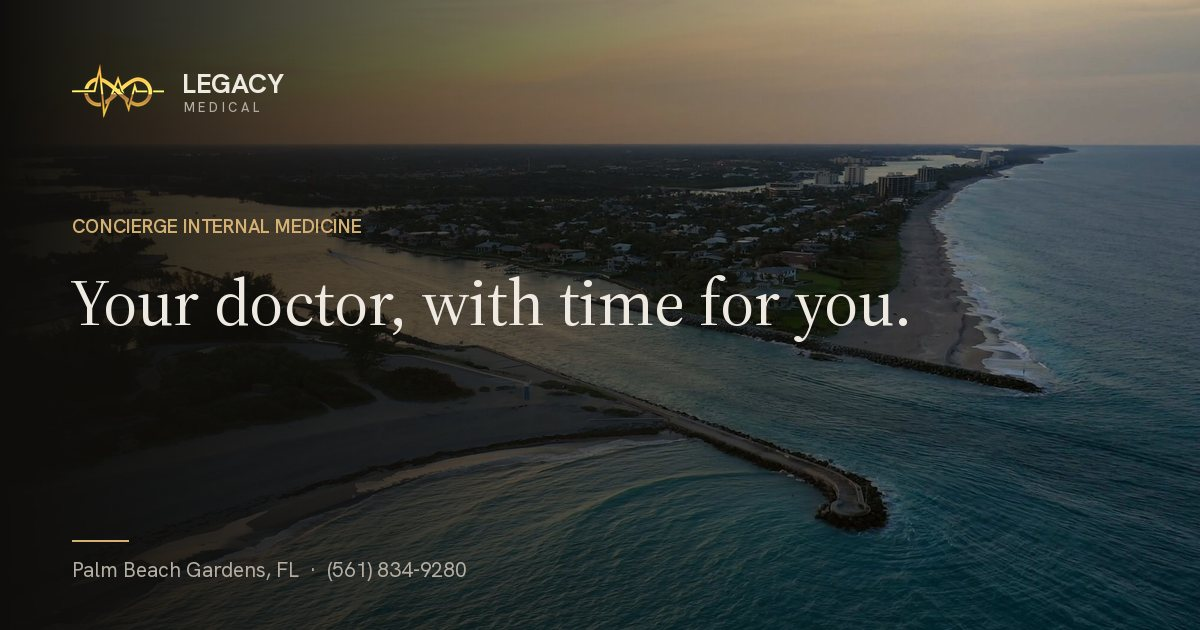
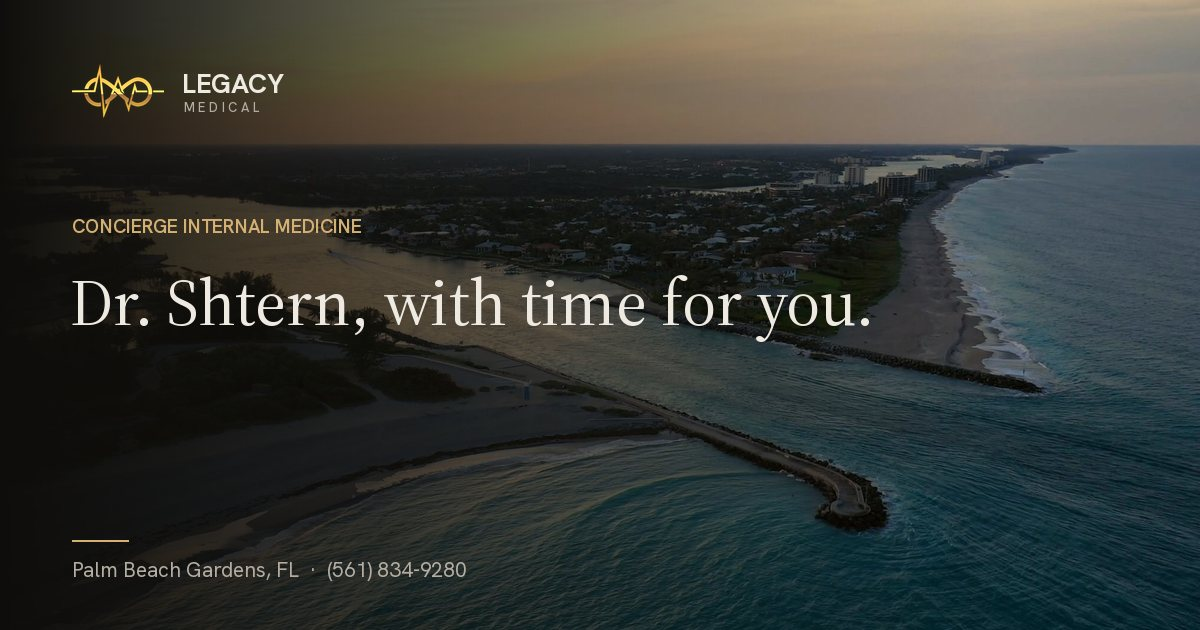
Hero headline: Dr. Shtern, with time for you
Replace "Your doctor," with "Dr. Shtern," in the home hero and regenerate
the home share card to match.

Claude-Session: https://claude.ai/code/session_01VnbfSFkBVVFF7HySXrHv4K

Changed region(s): [[0.0617, 0.4222, 0.74, 0.5429]]

diff --git a/public/index.html b/public/index.html
@@ -69,7 +69,7 @@
   <div class="hero-media"><picture><source type="image/avif" media="(max-aspect-ratio: 4/5)" srcset="/assets/video/inlet-poster-portrait-720.avif"><source type="image/webp" media="(max-aspect-ratio: 4/5)" srcset="/assets/video/inlet-poster-portrait-720.webp"><source type="image/avif" srcset="/assets/video/inlet-poster-768.avif 768w, /assets/video/inlet-poster-1280.avif 1280w, /assets/video/inlet-poster-1920.avif 1920w" sizes="100vw"><source type="image/webp" srcset="/assets/video/inlet-poster-768.webp 768w, /assets/video/inlet-poster-1280.webp 1280w, /assets/video/inlet-poster-1920.webp 1920w" sizes="100vw"><img src="/assets/video/inlet-poster-1280.jpg" srcset="/assets/video/inlet-poster-768.jpg 768w, /assets/video/inlet-poster-1280.jpg 1280w, /assets/video/inlet-poster-1920.jpg 1920w" sizes="100vw" width="1920" height="1080" alt="" fetchpriority="high" decoding="async"></picture><video muted loop playsinline preload="none" aria-hidden="true" tabindex="-1" disablepictureinpicture data-hd="/assets/video/inlet-1080.webm|/assets/video/inlet-1080.mp4" data-sd="/assets/video/inlet-720.webm|/assets/video/inlet-720.mp4" data-portrait="/assets/video/inlet-portrait.webm|/assets/video/inlet-portrait.mp4"></video></div>
   <div class="hero-scrim"></div>
   <div class="wrap hero-inner">
-    <h1 id="hero-h"><span class="hero-kicker fade-in" style="--i:0">Concierge internal medicine in Palm Beach Gardens</span><span class="hero-title"><span class="rise"><span style="--i:1">Your doctor,</span></span><span class="rise"><span style="--i:2">with <em>time</em></span></span><span class="rise"><span style="--i:3">for you.</span></span></span></h1>
+    <h1 id="hero-h"><span class="hero-kicker fade-in" style="--i:0">Concierge internal medicine in Palm Beach Gardens</span><span class="hero-title"><span class="rise"><span style="--i:1">Dr. Shtern,</span></span><span class="rise"><span style="--i:2">with <em>time</em></span></span><span class="rise"><span style="--i:3">for you.</span></span></span></h1>
     <p class="hero-lede fade-in" style="--i:3">Dr. Yana Shtern keeps a small practice on purpose. Members are seen the same or next business day, visits run long enough to talk, and the phone is answered at any hour.</p>
     <div class="btn-row fade-in" style="--i:4">
       <a class="btn" href="/membership#tour" data-loc="hero">Request a tour <svg class="arrow" viewBox="0 0 16 16" aria-hidden="true" focusable="false"><path d="M1 8h13M9 3l5 5-5 5" fill="none" stroke="currentColor" stroke-width="1.4"/></svg></a>

diff --git a/tools/build_brand.py b/tools/build_brand.py
@@ -134,7 +134,7 @@ def card(slug, title, kicker, photo=None, focal=(0.5, 0.3), bg_video=False):
 
 
 CARDS = [
-    ("home", "Your doctor, with time for you.", "Concierge internal medicine", None, (0.5, 0.3), True),
+    ("home", "Dr. Shtern, with time for you.", "Concierge internal medicine", None, (0.5, 0.3), True),
     ("default", "Concierge internal medicine in Palm Beach Gardens.", "Legacy Medical", "dr-shtern-front-desk-team.jpg", (0.5, 0.3), False),
     ("dr-yana-shtern", "Dr. Yana Shtern, MD", "Internal medicine · Nephrology", "dr-shtern-portrait.jpg", (0.5, 0.2), False),
     ("concierge-medicine", "Primary care with fewer patients and more time.", "Concierge medicine", "dr-shtern-desk.jpg", (0.62, 0.3), False),

diff --git a/content.py b/content.py
@@ -161,7 +161,7 @@ HERO_VIDEO = {
 
 HOME = {
     "kicker": "Concierge internal medicine in Palm Beach Gardens",
-    "hero_lines": ["Your doctor,", "with <em>time</em>", "for you."],  # <em> is styled gold, upright: no italic font on the LCP path
+    "hero_lines": ["Dr. Shtern,", "with <em>time</em>", "for you."],  # <em> is styled gold, upright: no italic font on the LCP path
     "hero_lede": "Dr. Yana Shtern keeps a small practice on purpose. Members are seen the same or next business day, visits run long enough to talk, and the phone is answered at any hour.",
     "problem_eyebrow": "The usual way",
     "problem_statement": "Fifteen minutes, a portal message, and a referral to someone you have never met.",
